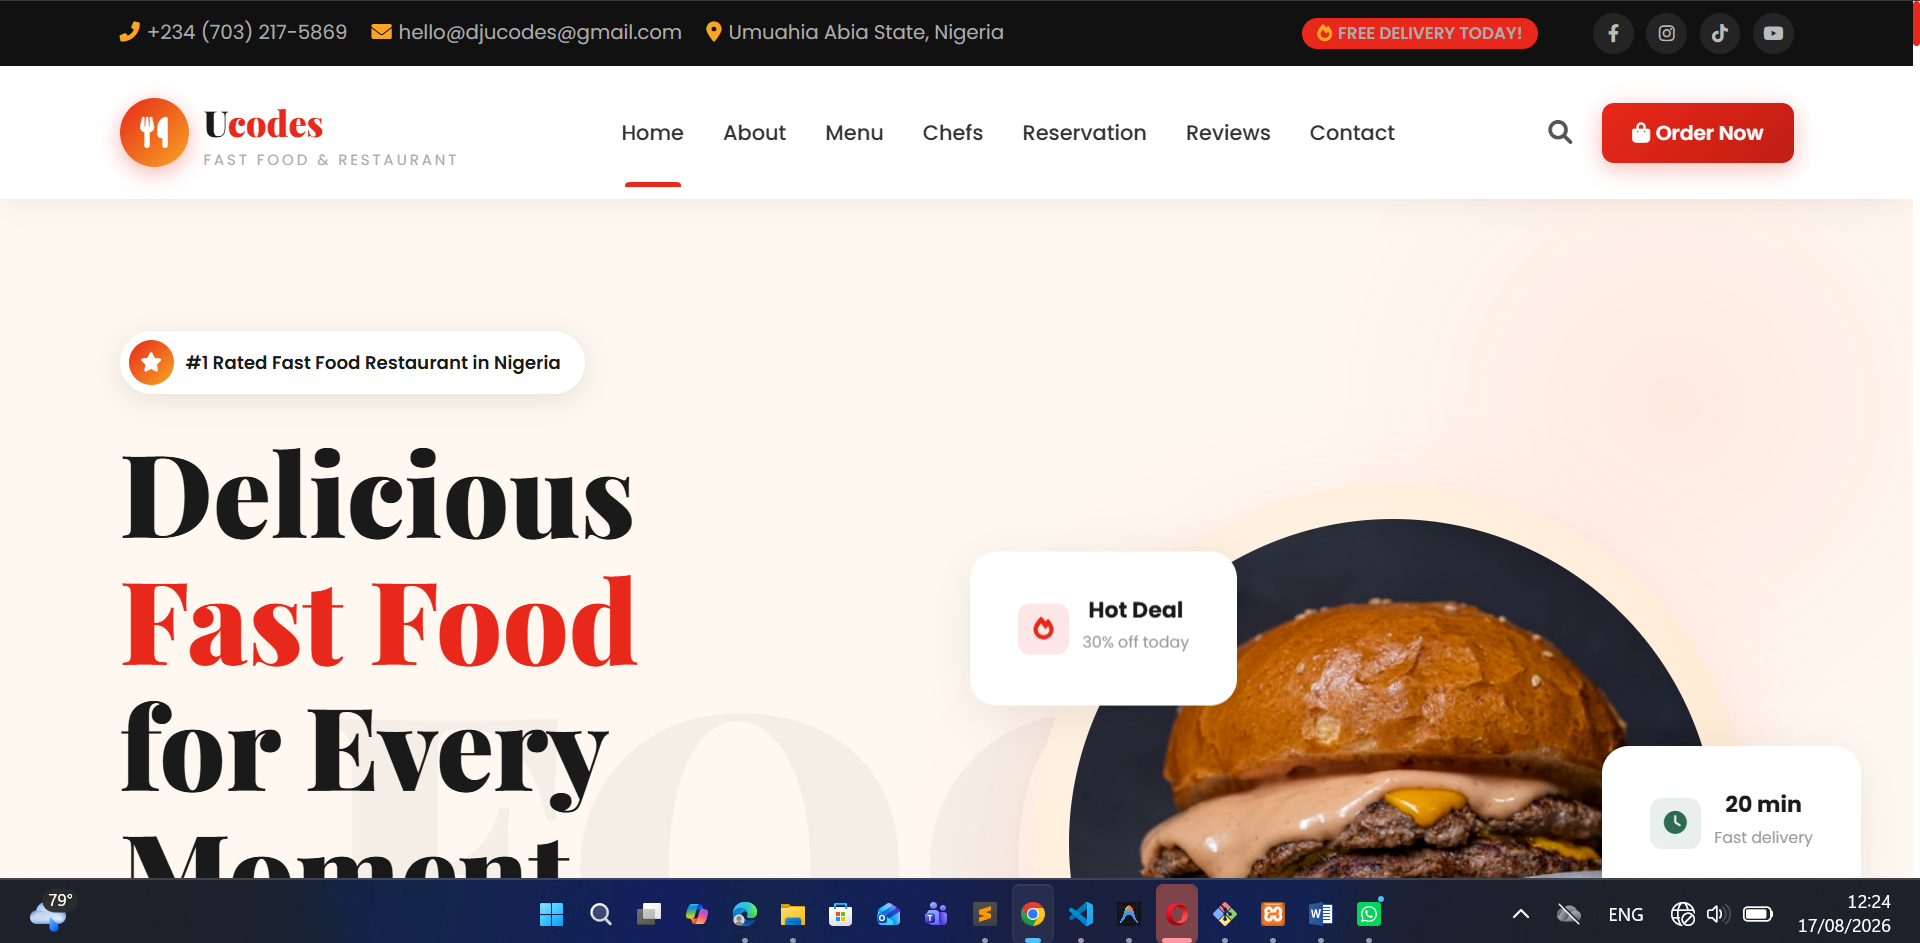
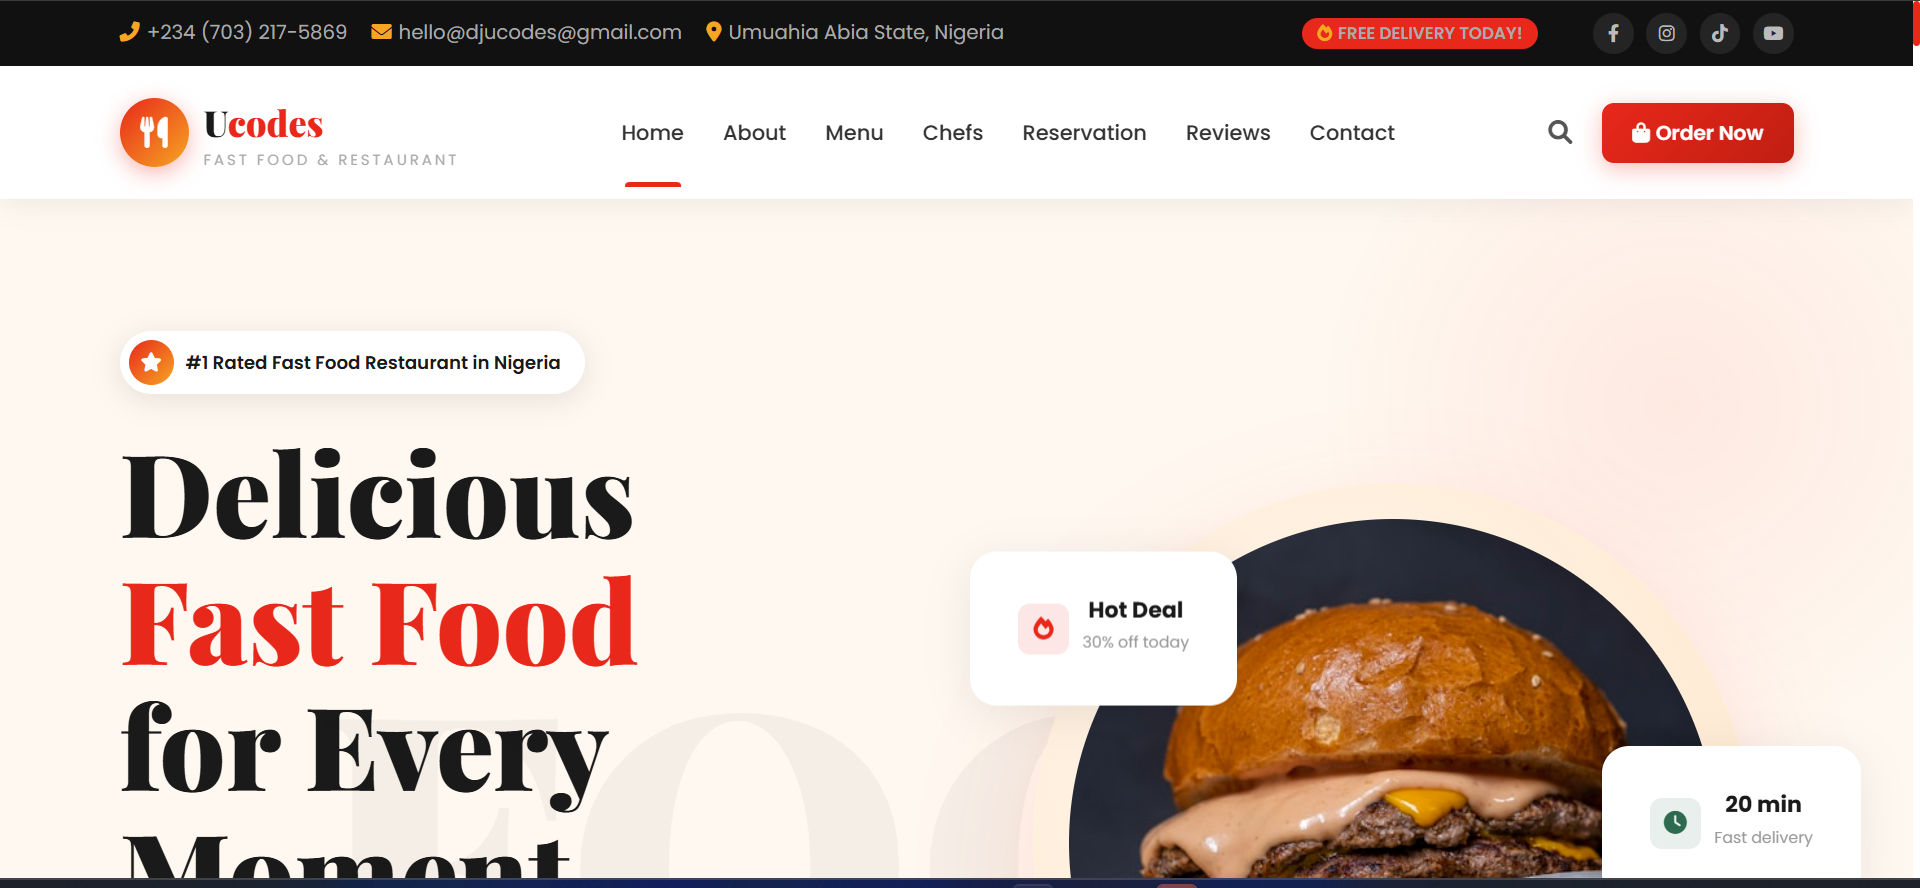
updating all

diff --git a/index.html b/index.html
@@ -96,7 +96,7 @@
     <section class="profile my-6 reveal">
       <div class="container">
         <div class="row">
-          <div class="col-md-6">
+          <div class="col-md-6 reveal-left">
             <h3 class="text-uppercase fw-bold">Profile</h3>
             <p>
               Here is some more info about myself to help you get to know me
@@ -126,7 +126,7 @@
                   <i class="fas fa-home text-primary"></i> Website:
                 </h5>
                 <p> 
-                  <a href="https://portfolio-ucodes.vercel.app/">Ucodes.com
+                  <a href="https://portfolio-ucodes.vercel.app/" class="text-decoration-none text-reset">Ucodes.com
                   </a>
                 </p>
               </li>
@@ -138,7 +138,7 @@
               </li>
             </ul>
           </div>
-          <div class="col-md-6">
+          <div class="col-md-6 reveal-right">
             <h3 class="text-uppercase fw-bold">Skills</h3>
             <p>
               Here is a list of my skills with these dumb percentages that don't
@@ -226,12 +226,12 @@
           <div class="col-12">
             <a
               href="#contact-form"
-              class="btn btn-outline-dark btn-lg text-uppercase px-5 mx-3 my-2 reveal-left"
+              class="btn btn-outline-white btn-lg text-uppercase px-5 mx-3 my-2 reveal-scale"
               >Hire Me Now</a
             >
             <a
                href="images/cv/Uchenna-Egbuedo-CV.pdf" download="Uchenna-Egbuedo-CV.pdf"
-              class="btn btn-dark btn-lg text-uppercase px-5 mx-3 my-2 reveal-right"
+              class="btn btn-outline-dark btn-lg text-uppercase px-5 mx-3 my-2 reveal-scale"
               >Download CV</a
             >
           </div>
@@ -491,7 +491,7 @@
         <!-- Footer -->
         <div class="d-flex mt-5">
           <p class="flex-grow-1 reveal">
-            Copyright &copy; 2026 | Designed By Ucodes
+            &copy; 2026. Ucodes. All rights reserved.
           </p>
           <div class="hstack gap-3">
             <a href="https://www.facebook.com/share/1bZWJbP71T/" target="_blank" rel="noopener noreferrer">
